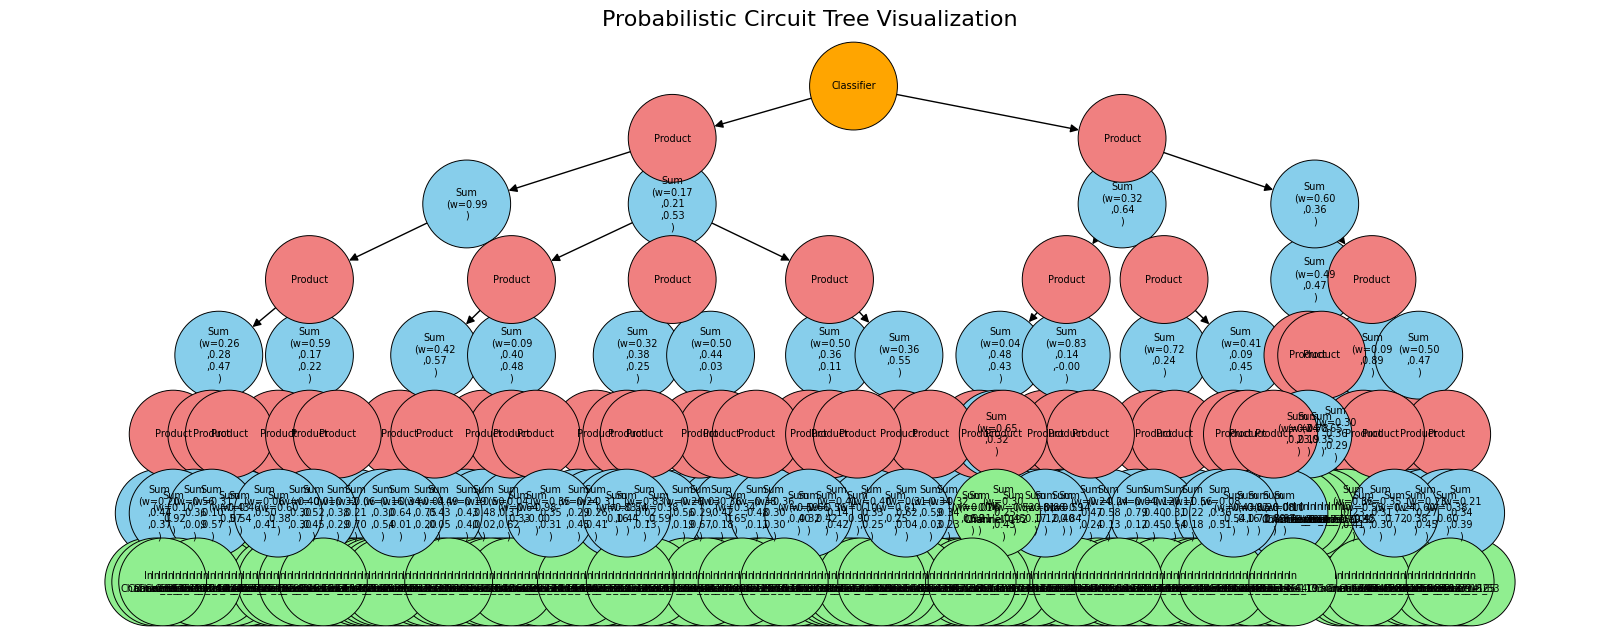
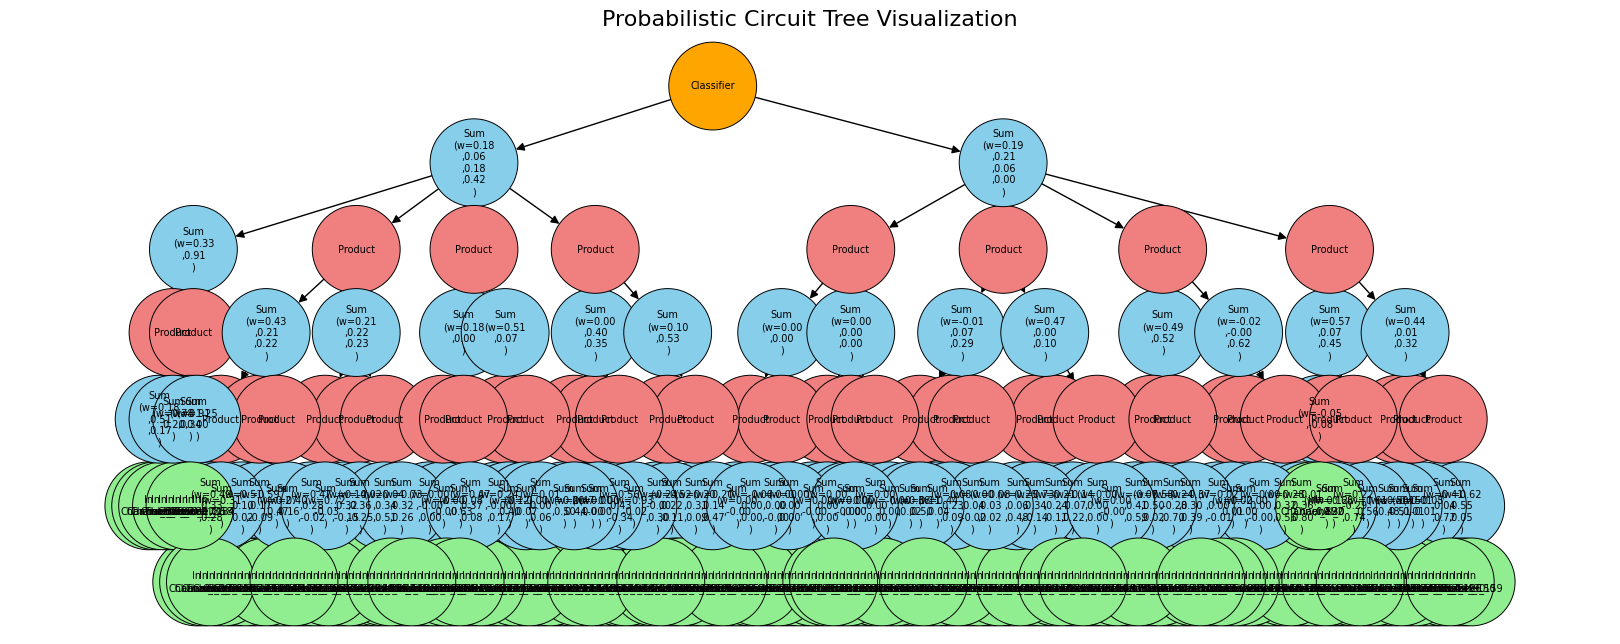
added results

diff --git a/src/experiment.py b/src/experiment.py
@@ -36,7 +36,7 @@ class Experiment:
     def __init__(self, config):
         self.config = config
         self.execution_mode = self.config.get("execution_mode", "train")
-        self.device = torch.device("cuda" if torch.cuda.is_available() else "cpu")
+        self.device = self.config.get("device", "cpu")
 
         self.data_path = self.config.get("data_path", "data/train")
         self.validation_split = self.config.get("validation_split", 0.2)
@@ -566,7 +566,7 @@ class ExperimentPC(Experiment):
             for theta in [0, np.pi/4, np.pi/2, 3*np.pi/4]:
                 real, imag = gabor(gray, frequency=0.2, theta=theta)
                 feats += [real, imag]
-
+            # feats = feats + 0.05 * torch.randn_like(feats)
             return np.stack(feats).astype(np.float32)
 
         feats = [process_one(im) for im in tqdm.tqdm(images, desc="Handcrafted features")]
@@ -587,7 +587,7 @@ class ExperimentPC(Experiment):
             return self.get_handcrafted_features(images)
         raise ValueError(f"Unknown feature extractor {self.feature_extractor}")
     def train(self, model, epochs=10, lr=0.01):
-        optimizer = torch.optim.Adam(model.params, lr=lr)
+        optimizer = torch.optim.Adam(model.params, lr=lr, weight_decay=1e-4)
         print_configs("Number of trainable parameters:", sum(p.numel() for p in model.params))
         feature_tensor = torch.from_numpy(self.feature_tensor).float().to(self.device)
         target = torch.from_numpy(self.train_masks).long().to(self.device)
@@ -627,7 +627,6 @@ class ExperimentPC(Experiment):
                 
                 # ft: (C, H, W) → logits: (1, n_classes, H, W)
                 logits = model.evaluate(ft) 
-                # preds = torch.sigmoid(logits)  # (1, H, W)
                 loss = self.criterion(logits, t.unsqueeze(0))  # (1, H, W)
                 loss.backward()
                 optimizer.step()
@@ -672,10 +671,10 @@ class ExperimentPC(Experiment):
         ious = []
         
         for d in data:            
-            probs= model.evaluate(d[0])
-            loss = self.criterion(probs, d[1])
-            dice_score = self.dice_coef(probs, d[1]).item()
-            iou_score = self.iou_score(probs, d[1]).item()
+            logits= model.evaluate(d[0])
+            loss = self.criterion(logits, d[1])
+            dice_score = self.dice_coef(logits, d[1]).item()
+            iou_score = self.iou_score(logits, d[1]).item()
             losses.append(loss.item())
             dices.append(dice_score)
             ious.append(iou_score)